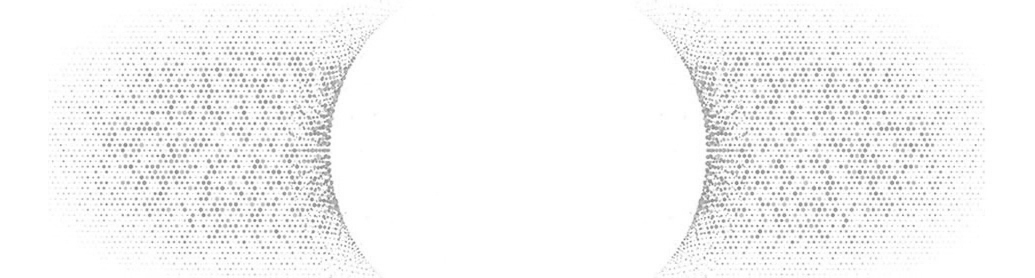
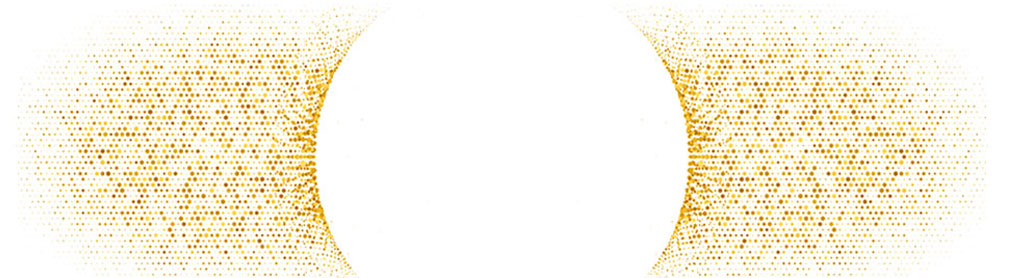
270201

Changed region(s): [[0.0, 0.0288, 0.371, 1.0], [0.6184, 0.0288, 0.9585, 1.0]]

diff --git a/scss/estilos.scss b/scss/estilos.scss
@@ -31,15 +31,16 @@
   .container-fluid{
     background-image: url(../media/back/back_contador.jpg) ;
     background-size: cover;
+    background-position: center;
     background-repeat: no-repeat;
   }
   .container{
     .contador{    
       text-align: center; 
       .cartel{      
-        background-color: #818181;      
-        border-top: 5px solid #1d1c1c;
-        opacity: 0.7;        
+        background-color: #180e01;      
+        border-top: 5px solid #ca7612;
+        opacity: 0.9;        
         width: 130px;
         margin: 5px;
       }
@@ -53,20 +54,20 @@
         margin: 0px;
       }
       h2{
-        color: #323230;
+        color: #ca7612;
         font-size: 60px;
         font-family: 'Imperial Script', cursive;
         margin: 0px;
       }
       h3{
-        color: #000000;
-        font-size: 30px;
+        color: #ca7612;
+        font-size: 22px;
         font-family: 'Manrope', sans-serif;
         padding-bottom: 16px;
         padding-bottom: 10px;
       }
       h4{
-        color: #2a2a2a;
+        color: #ca7612;
         font-size: 20px;
         font-family: 'Manrope', sans-serif;
         margin: 0px;
@@ -75,17 +76,17 @@
         font-size: 70px;
         font-family: 'Manrope', sans-serif,;
         font-weight: bold;
-        color: #000000;   
+        color: #ca7612;   
       }
       #horas{
         font-size: 70px;
         font-family: 'Manrope', sans-serif;
-        color: #000000;
+        color: #ca7612;
       }
       #minutos{
         font-size: 70px;
         font-family: 'Manrope', sans-serif;
-        color: #000000;
+        color: #ca7612;
       }
       #segundos{
         font-size: 70px;
@@ -158,10 +159,12 @@
 --------------------------------------------------------------*/
 #regalos{
   .container-fluid{
-    background-color: #282828;
+    background-image: url(../media/back/back_regalos.jpg) ;
+    background-size: cover;
+    background-position: center;
+    background-repeat: no-repeat;
   }
-  .container{
-    background:#282828;
+  .container{  
     padding-top: 20px;
     padding-bottom: 50px;
     .card{
@@ -297,11 +300,12 @@
     text-align: center;
     h2{
       text-align: center;
-      color: white;    
-      font-family: 'Imperial Script', cursive;
-      font-size: 36px;
+      color: rgb(0, 0, 0);    
+      font-family: 'Manrope', sans-serif;
+      font-weight: bold;
+      font-size: 18px;
     }
-  }  
+  }
 }
 /*--------------------------------------------------------------
 # footer

diff --git a/scss/estilos.css b/scss/estilos.css
@@ -34,15 +34,16 @@
 #contador .container-fluid {
   background-image: url(../media/back/back_contador.jpg);
   background-size: cover;
+  background-position: center;
   background-repeat: no-repeat;
 }
 #contador .container .contador {
   text-align: center;
 }
 #contador .container .contador .cartel {
-  background-color: #818181;
-  border-top: 5px solid #1d1c1c;
-  opacity: 0.7;
+  background-color: #180e01;
+  border-top: 5px solid #ca7612;
+  opacity: 0.9;
   width: 130px;
   margin: 5px;
 }
@@ -56,20 +57,20 @@
   margin: 0px;
 }
 #contador .container .contador h2 {
-  color: #323230;
+  color: #ca7612;
   font-size: 60px;
   font-family: "Imperial Script", cursive;
   margin: 0px;
 }
 #contador .container .contador h3 {
-  color: #000000;
-  font-size: 30px;
+  color: #ca7612;
+  font-size: 22px;
   font-family: "Manrope", sans-serif;
   padding-bottom: 16px;
   padding-bottom: 10px;
 }
 #contador .container .contador h4 {
-  color: #2a2a2a;
+  color: #ca7612;
   font-size: 20px;
   font-family: "Manrope", sans-serif;
   margin: 0px;
@@ -78,17 +79,17 @@
   font-size: 70px;
   font-family: "Manrope", sans-serif;
   font-weight: bold;
-  color: #000000;
+  color: #ca7612;
 }
 #contador .container .contador #horas {
   font-size: 70px;
   font-family: "Manrope", sans-serif;
-  color: #000000;
+  color: #ca7612;
 }
 #contador .container .contador #minutos {
   font-size: 70px;
   font-family: "Manrope", sans-serif;
-  color: #000000;
+  color: #ca7612;
 }
 #contador .container .contador #segundos {
   font-size: 70px;
@@ -155,10 +156,12 @@
 # REGALOS
 --------------------------------------------------------------*/
 #regalos .container-fluid {
-  background-color: #282828;
+  background-image: url(../media/back/back_regalos.jpg);
+  background-size: cover;
+  background-position: center;
+  background-repeat: no-repeat;
 }
 #regalos .container {
-  background: #282828;
   padding-top: 20px;
   padding-bottom: 50px;
 }
@@ -288,9 +291,10 @@
 }
 #nofaltes .container h2 {
   text-align: center;
-  color: white;
-  font-family: "Imperial Script", cursive;
-  font-size: 36px;
+  color: rgb(0, 0, 0);
+  font-family: "Manrope", sans-serif;
+  font-weight: bold;
+  font-size: 18px;
 }
 
 /*--------------------------------------------------------------

diff --git a/index.html b/index.html
@@ -18,7 +18,7 @@
     <div id="navbar" class="menu fixed-top px-0">
         <div class="container px-0">
             <nav class="navbar navbar-expand-lg navbar-light">                
-                <img src="media/MIA_Mesa de trabajo 1.png" alt="Mia">
+                <img src="media/More.png" alt="Mia">
                 <button class="navbar-toggler" type="button" data-toggle="collapse"
                     style="background-color: whitesmoke;" data-target="#navbarSupportedContent"
                     aria-controls="navbarSupportedContent" aria-expanded="false" aria-label="Toggle navigation">
@@ -101,7 +101,7 @@
                 </div>
                 <div class="text-center mb-3">
                      <button type="button" class="btn btn-success">
-                        <h3 class="text-light">  - Confirmar asistencia por Whatsapp antes de <b>10/03/26 - </b></h3>
+                        <h3 class="text-light">Confirmar por Whatsapp antes de <b>10/03/26</b></h3>
                     </button>
                 </div>
                 <div class="text-center">                   
